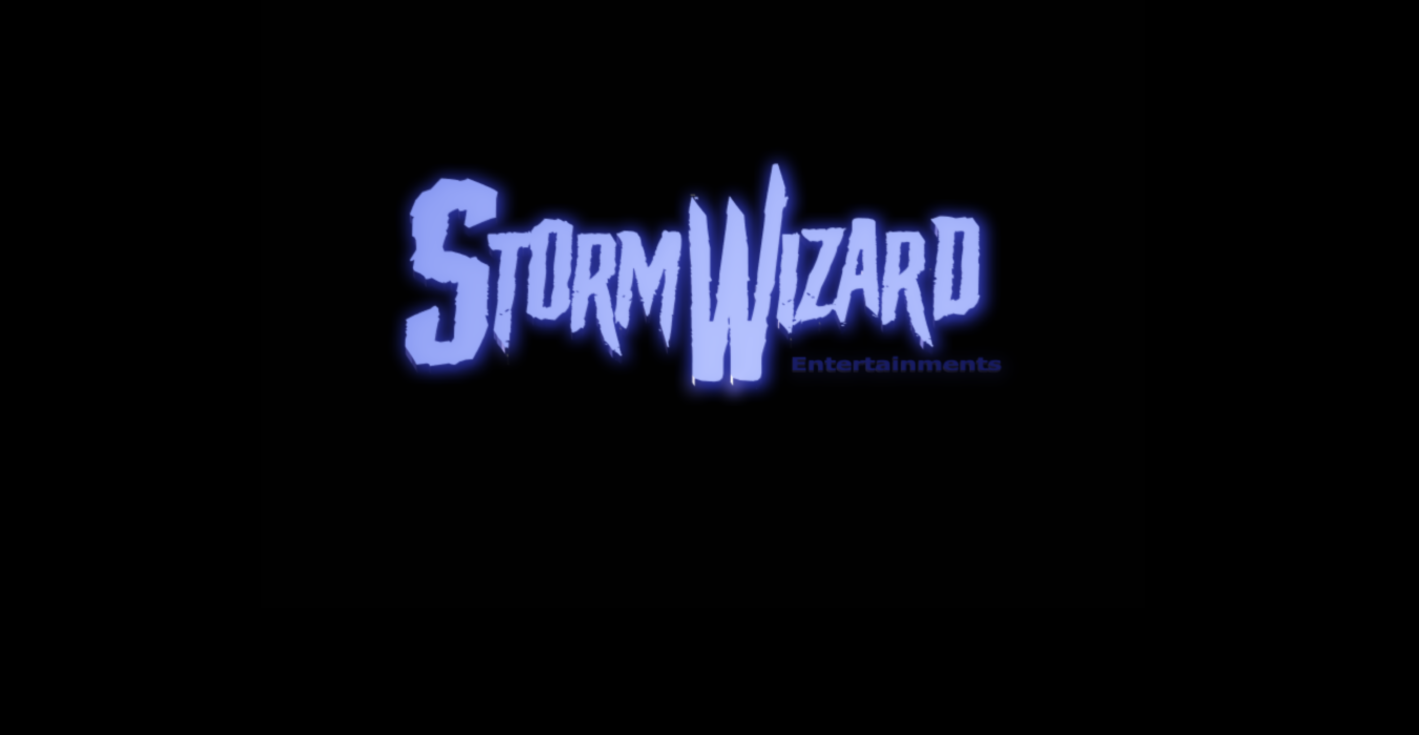
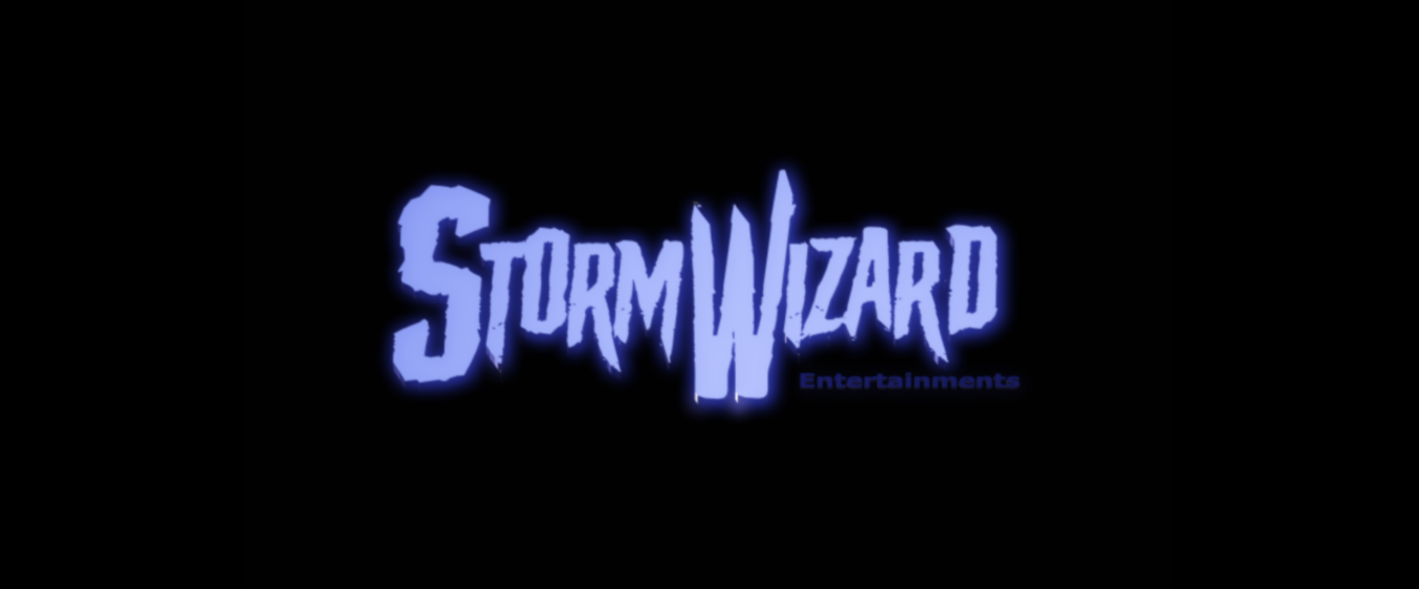
Consertei alguns bugs

Changed region(s): [[0.2481, 0.2139, 0.7442, 0.7334]]

diff --git a/style.css b/style.css
@@ -10,6 +10,7 @@
     width: 30%;
     top: 2rem;
     z-index: 15;
+    margin-left: 2rem;
 }
 .config-home li{
     left: 5rem;
@@ -55,16 +56,9 @@
 .config-links a:hover{
     color: #ffffff;
 }
-
-header{
-    position: relative;
-    width: 100%;
-    height: 30%;
-}
-
 .start{
    width: 100%;
-   height: 100%;
+   height: 30rem;
    background-color: #000000;
 }
 
@@ -82,15 +76,18 @@ header{
     }
 }
 .menu{
-    position: absolute;
     width: 100%;
-    height: 5%;
-    bottom: 10rem;
+    height: 3rem;
     background-color: #0b3c5d;
+    display: grid;
+    grid-template-columns: repeat(16, 1fr);
+    grid-template-rows: repeat(1, 3rem);
+    row-gap: .2rem;
 }
 .menu li{
 display: inline;
 background-color: #0b3c5d;
+padding-top: .5rem;
 padding-left: 1rem;
 padding-right: 1rem;
 font-family: Impact, Haettenschweiler, 'Arial Narrow Bold', sans-serif;
@@ -105,38 +102,54 @@ border-right: .1rem solid #1d2731;
 }
 .painel-jogos{
     position: absolute;
+    margin-top: 3.1rem;
+    margin-left: .5rem;
     width: 90%;
     height: 10rem;
     opacity: 0;
+    transition: opacity .5s;
+    background-color: #0b3c5d;
 }
 .painel-jogos img{
-    width: 15rem;
+    width: 20rem;
     float: left;
+    margin: 2rem;
+    background-color: #0b3c5d;
     
 }
 .show-menu-jogos .painel-jogos{
-    opacity: 1;
+    opacity: .9;
 }
+
 .painel-eventos{
     position: absolute;
-    width: 20%;
+    margin-top: 3.1rem;
+    margin-left: 3rem;
+    left: 3rem;
+    width: 25rem;
     height: 10rem;
     opacity: 0;
+    background-color: #0b3c5d;
+    display: grid;
+    grid-template-columns: repeat(1, 1fr);
+    grid-template-rows: repeat(2, 3rem);
+    row-gap: .2rem;
+    transition: opacity .5s;
 }
 .painel-eventos li{
-    background-color: #1d2731;
-    border-bottom: .1rem solid #0b3c5d;
+    background-color: #0b3c5d;
+    margin: 2rem;
 }
 .painel-eventos a{
     font-family: Impact, Haettenschweiler, 'Arial Narrow Bold', sans-serif;
     color: #d98310;
-    background-color: #1d2731;
+    background-color: #0b3c5d;
 }
 .painel-eventos a:hover{
     color: #ffffff;
 }
 .show-menu-eventos .painel-eventos{
-    opacity: 1;
+    opacity: .9;
 }
 
 

diff --git a/index.html b/index.html
@@ -16,15 +16,15 @@
            <li><a href="index.html">Home</a></li>
       </div>
       <div class="config-links">
+           <li><a href="index.html">Entrar</a></li>
            <li>><a href="index.html">Suporte</a></li>
            <li><a href="index.html">Contato</a></li>
-           <li><a href="index.html">Entrar</a></li>
          
       </div>
       <header>
         <div class="start">
             <img src="img/Storm Wizard.png" alt="">
-        <div>
+        </div>
         <div class="menu">
             <li id="jogo">Jogos</li>
             <li id="eventos">Eventos</li>
